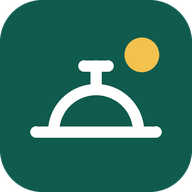
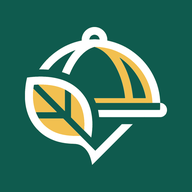
Add files via upload

diff --git a/index.html b/index.html
@@ -5,10 +5,10 @@
 <meta name="viewport" content="width=device-width, initial-scale=1, viewport-fit=cover">
 <meta name="theme-color" content="#0F5B4E">
 <meta name="apple-mobile-web-app-capable" content="yes">
-<title>Tempahan Makanan HKL</title>
+<title>Tempahan Makanan HKL | Jabatan Dietetik & Sajian</title>
 <link rel="manifest" href="manifest.json">
-<link rel="icon" href="icon.svg" type="image/svg+xml">
-<link rel="apple-touch-icon" href="icon-192.png">
[1 lines of base64/hex data omitted]
+<link rel="apple-touch-icon" href="apple-touch-icon.png">
 <link rel="preconnect" href="https://fonts.googleapis.com">
 <link rel="preconnect" href="https://fonts.gstatic.com" crossorigin>
 <link href="https://fonts.googleapis.com/css2?family=Plus+Jakarta+Sans:wght@400;500;600;700;800&display=swap" rel="stylesheet">
@@ -50,7 +50,8 @@ button{ cursor:pointer; }
 /* Header */
 .atas{ position:sticky; top:env(safe-area-inset-top,0px); z-index:20; background:var(--hijau); color:var(--on-hijau); }
 .atas-dalam{ max-width:680px; margin:0 auto; padding:12px 16px; display:flex; align-items:center; gap:12px; }
-.jenama{ font-weight:800; letter-spacing:-.01em; line-height:1.15; white-space:nowrap; }
+.jenama{ font-weight:800; letter-spacing:-.01em; line-height:1.15; white-space:nowrap; display:flex; align-items:center; gap:10px; }
+.jenama img{ width:36px; height:36px; border-radius:9px; flex:none; box-shadow:0 0 0 1.5px rgba(255,255,255,.35); }
 @media (max-width:420px){ .jenama small{ display:none; } }
 .jenama small{ display:block; font-weight:500; opacity:.8; font-size:.8rem; }
 .pengguna{ margin-left:auto; text-align:right; font-size:.8rem; line-height:1.25; min-width:0; }
@@ -153,7 +154,8 @@ nav.bawah button[aria-current="page"]{ color:var(--hijau); }
 label.medan{ display:grid; gap:4px; font-size:.86rem; font-weight:600; }
 .medan input,.medan select{ border:1.5px solid var(--garis); background:var(--kertas); border-radius:10px; padding:11px 12px; font-size:1rem; width:100%; }
 .medan input:focus,.medan select:focus{ outline:none; border-color:var(--hijau); }
-.baris2{ display:grid; grid-template-columns:1fr 1fr; gap:12px; }
+.baris2{ display:grid; grid-template-columns:minmax(0,1fr) minmax(0,1fr); gap:12px; }
+.medan input,.medan select{ min-width:0; }
 .pilihan{ display:grid; gap:8px; }
 .pilihan label{ display:flex; gap:12px; align-items:flex-start; border:1.5px solid var(--garis); border-radius:12px; padding:12px; background:var(--kertas); }
 .pilihan label:has(input:checked){ border-color:var(--hijau); background:var(--sage); }
@@ -164,6 +166,7 @@ label.medan{ display:grid; gap:4px; font-size:.86rem; font-weight:600; }
 /* Log masuk */
 .login{ min-height:100%; display:grid; place-items:center; padding:24px 16px; }
 .login-kotak{ width:100%; max-width:400px; }
+.login-kotak .logo-utama{ width:88px; height:88px; border-radius:22px; display:block; margin-bottom:16px; box-shadow:var(--bayang); }
 .login-kotak .logo{ width:64px; height:64px; border-radius:18px; background:var(--hijau); display:grid; place-items:center; margin-bottom:18px; }
 .login-kotak h1{ font-size:2rem; font-weight:800; letter-spacing:-.02em; line-height:1.1; margin-bottom:6px; }
 .login-kotak > p{ color:var(--kelabu); margin-bottom:22px; }
@@ -207,7 +210,9 @@ label.medan{ display:grid; gap:4px; font-size:.86rem; font-weight:600; }
 .laporan h2{ font-size:15pt; font-weight:800; margin:0; }
 .laporan h3{ font-size:11pt; font-weight:800; margin:16px 0 6px; }
 .lap-kepala{ border-bottom:2px solid #111; padding-bottom:8px; margin-bottom:6px; }
-.lap-kepala > p{ color:#444; margin:0 0 6px; }
+.lap-atas{ display:flex; align-items:center; justify-content:space-between; gap:16px; margin-bottom:8px; }
+.lap-atas img{ height:58px; width:auto; }
+.lap-atas h2{ text-align:right; max-width:50%; }
 .lap-meta td{ padding:1px 12px 1px 0; font-size:9pt; } .lap-meta td:nth-child(odd){ color:#555; }
 .lap-kad{ width:calc(100% - 2px); box-sizing:border-box; display:grid; grid-template-columns:repeat(3,1fr); border:1px solid #bbb; }
 .lap-kad div{ padding:6px 10px; border:1px solid #ddd; } .lap-kad span{ display:block; font-size:8.5pt; color:#555; } .lap-kad b{ font-size:13pt; }
@@ -268,7 +273,7 @@ dialog::backdrop{ background:rgba(8,20,17,.55); }
   <header class="atas">
     <div id="jalurDemo" class="demo-jalur tersembunyi">Mod demo: data disimpan dalam pelayar ini sahaja</div>
     <div class="atas-dalam">
-      <div class="jenama">Makanan HKL<small>Tempahan kakitangan</small></div>
+      <div class="jenama"><img src="" alt="" id="logoAtas"><span>Makanan HKL<small>Dietetik & Sajian</small></span></div>
       <div class="pengguna" id="infoPengguna"></div>
       <button class="btn-keluar" data-act="akaun">Akaun</button>
     </div>
@@ -284,7 +289,7 @@ dialog::backdrop{ background:rgba(8,20,17,.55); }
 <script>
 /* ================= KONFIGURASI ================= */
 const CONFIG = {
-  API_URL: 'https://script.google.com/macros/s/AKfycbylB4HlsI3jbDm_AwAM1efsp0Py5Bf2Bi8bnqYjT4Ispu5UNqBpnUJ98FAaKsTmAOyN/exec' // Pilihan B (GitHub Pages): tampal URL Web App (…/exec). Pilihan A (dalam Apps Script): biarkan kosong.
+  API_URL: '' // Pilihan B (GitHub Pages): tampal URL Web App (…/exec). Pilihan A (dalam Apps Script): biarkan kosong.
 };
 
 const SESI = ['Sarapan', 'Makan Tengah Hari', 'Minum Petang', 'Makan Malam'];
@@ -299,6 +304,10 @@ const CATUAN_MAX_HIDANGAN = 1;
 const DALAM_GAS = typeof google !== 'undefined' && !!(google.script && google.script.run);
 const DEMO = !CONFIG.API_URL && !DALAM_GAS;
 const TZ = 'Asia/Kuala_Lumpur';
+
+/* ================= LOGO (dibenam supaya berfungsi juga dalam Apps Script) ================= */
[2 lines of base64/hex data omitted]
 
 /* ================= UTILITI ================= */
 const $ = s => document.querySelector(s);
@@ -376,7 +385,8 @@ function skrin(html) {
 
 function paparLogin(idIsi = '') {
   skrin(`
-      <div class="logo">${ikon('dulang', '#fff', 34)}</div>
+      <img class="logo-utama" src="${LOGO_IKON}" alt="Logo Jabatan Dietetik & Sajian">
+      <p class="kecil" style="margin:0 0 4px;font-weight:600">Jabatan Dietetik & Sajian, Hospital Kuala Lumpur</p>
       <h1>Tempahan makanan kakitangan</h1>
       <p>Log masuk dengan ID staf dan kata laluan anda.</p>
       <form class="borang" id="fLogin">
@@ -588,6 +598,7 @@ function mulaApp() {
   $('#skrinLogin').classList.add('tersembunyi');
   $('#skrinApp').classList.remove('tersembunyi');
   $('#jalurDemo').classList.toggle('tersembunyi', !DEMO);
+  $('#logoAtas').src = LOGO_IKON;
   $('#infoPengguna').innerHTML = `<b>${esc(S.user.Nama)}</b><span>${PERANAN[S.user.Peranan]}</span>`;
   tukarView(navSaya()[0][0]);
 }
@@ -1115,8 +1126,7 @@ function htmlLaporan({ dari, hingga, sesi, senarai }) {
   const kini = new Intl.DateTimeFormat('en-GB', { timeZone: TZ, dateStyle: 'short', timeStyle: 'short' }).format(new Date());
   return `<div class="laporan">
     <header class="lap-kepala">
-      <h2>Laporan Tempahan Makanan Kakitangan</h2>
-      <p>Hospital Kuala Lumpur</p>
+      <div class="lap-atas"><img src="${LOGO_LAPORAN}" alt="Jabatan Dietetik & Sajian, Hospital Kuala Lumpur"><h2>Laporan Tempahan Makanan Kakitangan</h2></div>
       <table class="lap-meta"><tr><td>Tempoh</td><td>${tempoh}</td><td>Sesi</td><td>${esc(sesi)}</td></tr>
         <tr><td>Dijana oleh</td><td>${esc(S.user.Nama)}</td><td>Tarikh jana</td><td>${kini}</td></tr></table>
     </header>

diff --git a/sw.js b/sw.js
@@ -1,6 +1,6 @@
 // Service worker: cache kerangka app sahaja. Data API sentiasa dari rangkaian.
-const CACHE = 'hkl-makanan-v1';
-const ASET = ['./', './index.html', './manifest.json', './icon.svg', './icon-192.png', './icon-512.png'];
+const CACHE = 'hkl-makanan-v2'; // naikkan nombor ini setiap kali tukar ikon/logo
+const ASET = ['./', './index.html', './manifest.json', './icon-192.png', './icon-512.png', './apple-touch-icon.png', './favicon.png'];
 
 self.addEventListener('install', e => {
   e.waitUntil(caches.open(CACHE).then(c => c.addAll(ASET)).then(() => self.skipWaiting()));
